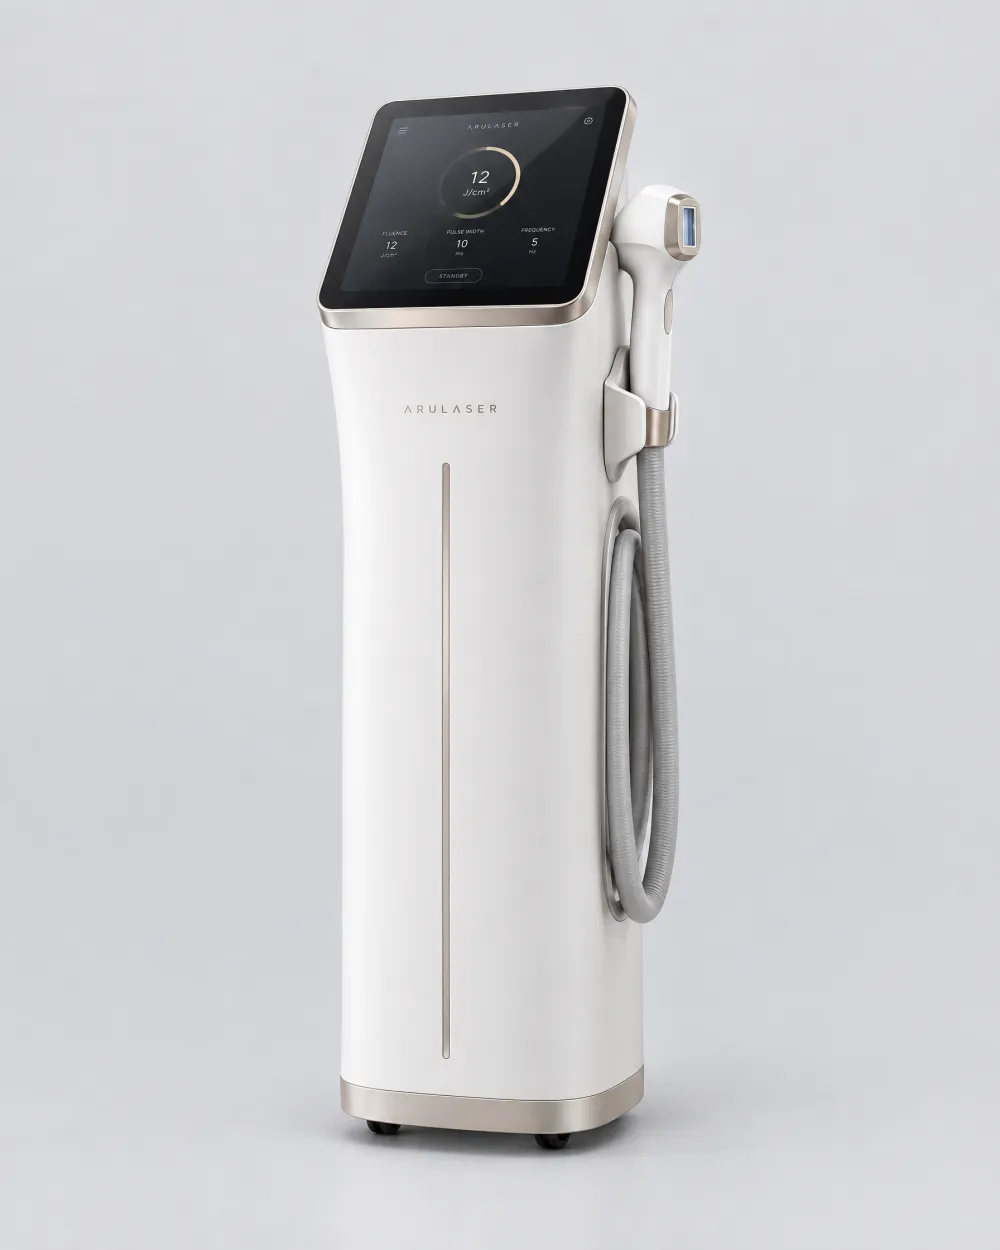
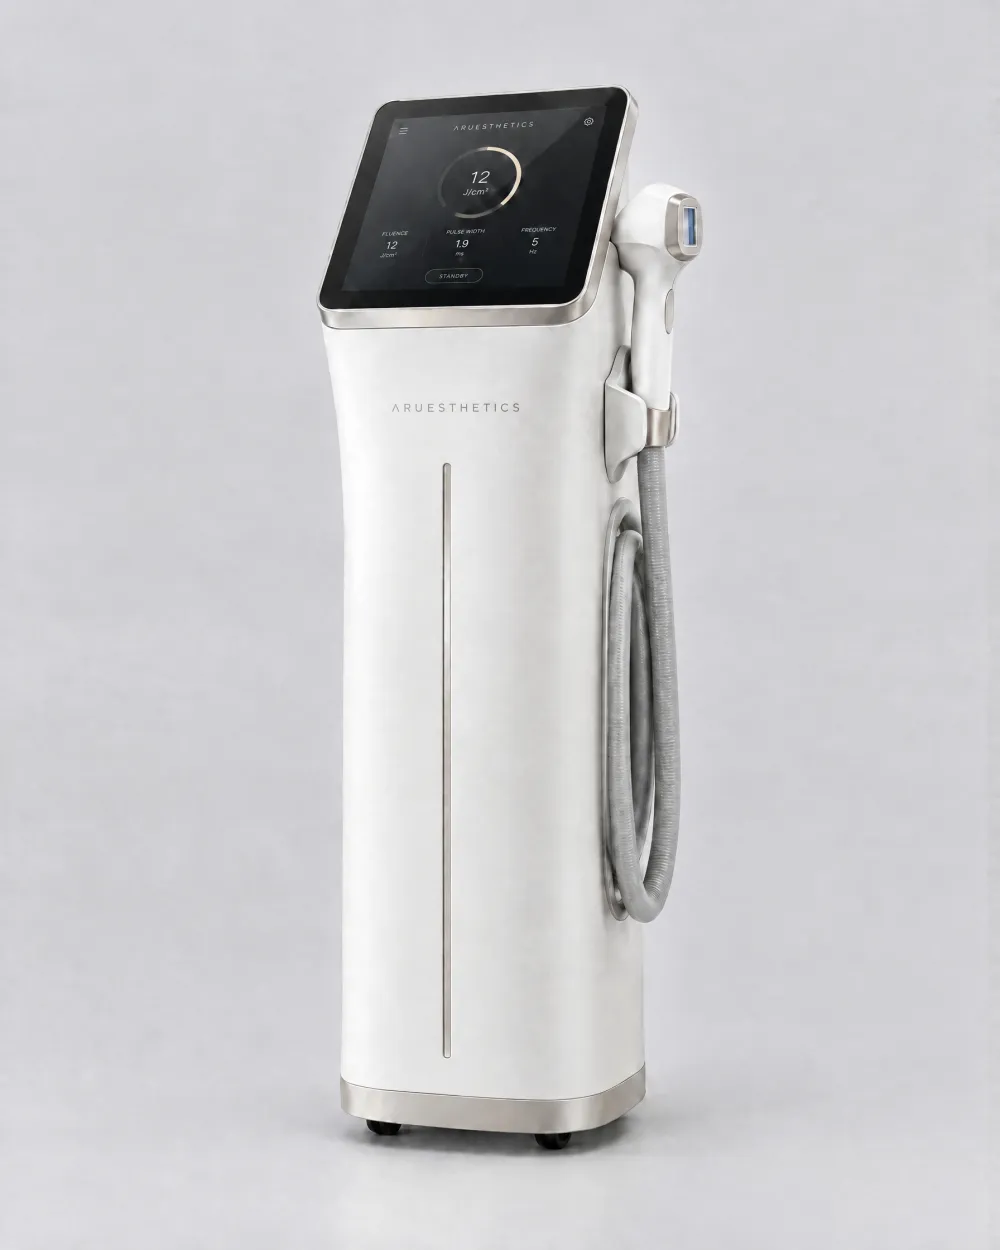
feat: la marca pasa a llamarse Aruesthetics
- Nombre en título, metadatos, logo, pie, texto legal, avisos del formulario
  y carpeta de envíos (../aruesthetics-datos).
- Las ocho fotos de equipo, editadas en Higgsfield: grabado y pantalla dicen
  ARUESTHETICS (comprobado con OCR); versión en la URL para saltar la caché.
- Rótulo gigante del pie reajustado a 12 letras.

diff --git a/site/index.html b/site/index.html
@@ -3,23 +3,23 @@
 <head>
   <meta charset="utf-8">
   <meta name="viewport" content="width=device-width, initial-scale=1, viewport-fit=cover">
-  <title>Arulaser — Maquinaria láser para centros estéticos</title>
-  <meta name="description" content="Arulaser diseña y distribuye maquinaria láser profesional para centros estéticos, clínicas y dermatología: depilación láser, picosegundo, Q-Switch, CO₂ fraccionado y vascular.">
+  <title>Aruesthetics — Maquinaria láser para centros estéticos</title>
+  <meta name="description" content="Aruesthetics diseña y distribuye maquinaria láser profesional para centros estéticos, clínicas y dermatología: depilación láser, picosegundo, Q-Switch, CO₂ fraccionado y vascular.">
   <!-- Dominio temporal: no indexar hasta publicar en el dominio definitivo -->
   <meta name="robots" content="noindex, nofollow">
   <meta name="theme-color" content="#141414">
   <meta property="og:type" content="website">
   <meta property="og:locale" content="es_ES">
-  <meta property="og:title" content="Arulaser — Maquinaria láser para centros estéticos">
+  <meta property="og:title" content="Aruesthetics — Maquinaria láser para centros estéticos">
   <meta property="og:description" content="Tecnología láser profesional para centros estéticos y clínicas, con formación y servicio técnico.">
   <meta property="og:image" content="img/og.jpg">
   <link rel="icon" href="img/favicon.svg" type="image/svg+xml">
   <link rel="preload" as="font" type="font/woff2" href="fonts/marcellus.woff2" crossorigin>
   <link rel="preload" as="font" type="font/woff2" href="fonts/hanken.woff2" crossorigin>
   <link rel="preload" as="image" href="img/hero.webp">
-  <link rel="stylesheet" href="css/styles.css?v=6">
+  <link rel="stylesheet" href="css/styles.css?v=7">
   <script type="application/ld+json">
-  {"@context":"https://schema.org","@type":"Organization","name":"Arulaser","description":"Maquinaria láser profesional para centros estéticos y clínicas.","logo":"img/favicon.svg"}
+  {"@context":"https://schema.org","@type":"Organization","name":"Aruesthetics","description":"Maquinaria láser profesional para centros estéticos y clínicas.","logo":"img/favicon.svg"}
   </script>
 </head>
 <body>
@@ -32,9 +32,9 @@
       <a href="#centros" data-sections="centros,encuentra">Para tu centro</a>
       <a href="#formacion" data-sections="formacion">Acompañamiento</a>
     </nav>
-    <a class="nav__logo" href="#top" aria-label="Arulaser, inicio">
+    <a class="nav__logo" href="#top" aria-label="Aruesthetics, inicio">
       <svg viewBox="0 0 40 40" aria-hidden="true"><circle cx="20" cy="20" r="18.5" fill="none" stroke="currentColor" stroke-width="1.2"/><circle cx="20" cy="20" r="11" fill="none" stroke="currentColor" stroke-width="1.2"/><path d="M1.5 20h37" stroke="currentColor" stroke-width="1.2"/><circle cx="20" cy="20" r="2.6" fill="currentColor"/></svg>
-      <span>ARULASER</span>
+      <span>ARUESTHETICS</span>
     </a>
     <div class="nav__right">
       <button type="button" class="linklike nav__quiz" data-open-quiz>Encuentra tu equipo</button>
@@ -276,7 +276,7 @@
         </label>
         <label class="field field--wide"><span>Mensaje</span><textarea name="mensaje" rows="4" placeholder="Tratamientos que quieres ofrecer, número de cabinas, plazos…"></textarea></label>
         <label class="check field--wide"><input type="checkbox" name="privacidad" required data-msg="Acepta la política de privacidad para poder enviarla."> <span>He leído y acepto la <button type="button" class="linklike u" data-open-privacy>política de privacidad</button>.</span></label>
-        <p class="legal field--wide"><strong>Responsable:</strong> Arulaser. <strong>Finalidad:</strong> responder a tu solicitud y organizar la demostración. <strong>Legitimación:</strong> tu consentimiento. <strong>Destinatarios:</strong> no se ceden datos a terceros salvo obligación legal. <strong>Derechos:</strong> acceso, rectificación, supresión y demás, como se explica en la política de privacidad.</p>
+        <p class="legal field--wide"><strong>Responsable:</strong> Aruesthetics. <strong>Finalidad:</strong> responder a tu solicitud y organizar la demostración. <strong>Legitimación:</strong> tu consentimiento. <strong>Destinatarios:</strong> no se ceden datos a terceros salvo obligación legal. <strong>Derechos:</strong> acceso, rectificación, supresión y demás, como se explica en la política de privacidad.</p>
         <p class="form__req field--wide"><i aria-hidden="true">*</i> Campos obligatorios</p>
         <div class="form__foot field--wide">
           <button class="btn btn--ink" type="submit">Enviar solicitud</button>
@@ -288,10 +288,10 @@
 
   <!-- ============ PIE ============ -->
   <footer class="footer" data-nav="dark">
-    <div class="footer__word" aria-hidden="true">ARULASER</div>
+    <div class="footer__word" aria-hidden="true">ARUESTHETICS</div>
     <div class="footer__grid">
       <div class="footer__news">
-        <h2 class="footer__h">Novedades Arulaser</h2>
+        <h2 class="footer__h">Novedades Aruesthetics</h2>
         <p>Lanzamientos, formaciones y novedades técnicas, sin saturar tu bandeja.</p>
         <form class="news" action="enviar.php" method="post" novalidate>
           <input type="hidden" name="tipo" value="newsletter">
@@ -313,7 +313,7 @@
         </ul>
       </div>
       <div>
-        <h2 class="footer__h">Arulaser</h2>
+        <h2 class="footer__h">Aruesthetics</h2>
         <ul>
           <li><a href="#tratamiento">El tratamiento</a></li>
           <li><button type="button" class="linklike" data-open-quiz>Encuentra tu equipo</button></li>
@@ -323,7 +323,7 @@
       </div>
     </div>
     <div class="footer__bottom">
-      <span>ARULASER © 2026</span>
+      <span>ARUESTHETICS © 2026</span>
       <button type="button" class="linklike" data-open-privacy>Privacidad</button>
       <span>Maquinaria láser profesional</span>
     </div>
@@ -412,13 +412,13 @@
     <button class="sheet__close" type="button" data-close aria-label="Cerrar">&times;</button>
     <div class="privacy__inner">
       <h2 id="pv-t" class="display display--ink">Privacidad</h2>
-      <p>Los datos que nos envías a través de los formularios de esta web se tratan con el único fin de responder a tu solicitud, organizar demostraciones y, si te suscribes, enviarte novedades de Arulaser.</p>
+      <p>Los datos que nos envías a través de los formularios de esta web se tratan con el único fin de responder a tu solicitud, organizar demostraciones y, si te suscribes, enviarte novedades de Aruesthetics.</p>
       <p>La base legal es tu consentimiento, que puedes retirar en cualquier momento. Conservamos los datos mientras sean necesarios para atender tu solicitud o hasta que pidas su supresión. No los cedemos a terceros salvo obligación legal.</p>
       <p>Puedes ejercer tus derechos de acceso, rectificación, supresión, oposición, limitación y portabilidad escribiéndonos a través del formulario de contacto, y presentar una reclamación ante la Agencia Española de Protección de Datos (aepd.es).</p>
       <p>Esta web no utiliza cookies de análisis ni de publicidad.</p>
     </div>
   </dialog>
 
-  <script src="js/main.js?v=5" defer></script>
+  <script src="js/main.js?v=6" defer></script>
 </body>
 </html>

diff --git a/site/js/main.js b/site/js/main.js
@@ -1,5 +1,5 @@
 /* ==========================================================
-   Arulaser — interacción de la página
+   Aruesthetics — interacción de la página
    ========================================================== */
 (() => {
   'use strict';
@@ -15,42 +15,42 @@
   /* ---------- Catálogo ---------- */
   const PRODUCTS = {
     trio: {
-      no: 'No. 01', name: 'Aru Trio', tech: 'Diodo · 755 / 808 / 1064 nm', img: 'img/p01.webp',
+      no: 'No. 01', name: 'Aru Trio', tech: 'Diodo · 755 / 808 / 1064 nm', img: 'img/p01.webp?v=2',
       desc: 'Plataforma de diodo con tres longitudes de onda combinadas en un mismo disparo. Pensada para cabinas de depilación con mucha agenda: un solo equipo para trabajar todos los fototipos y todas las zonas.',
       specs: ['Tres longitudes de onda combinadas: 755, 808 y 1064 nm', 'Pieza de mano con ventana de zafiro refrigerada', 'Pantalla táctil con protocolos por fototipo y zona', 'Formato torre con ruedas ocultas'],
     },
     compact: {
-      no: 'No. 02', name: 'Aru Compact', tech: 'Diodo · 808 nm', img: 'img/p02.webp', tag: 'Nuevo',
+      no: 'No. 02', name: 'Aru Compact', tech: 'Diodo · 808 nm', img: 'img/p02.webp?v=2', tag: 'Nuevo',
       desc: 'Diodo de sobremesa para centros que empiezan con el láser o necesitan una segunda cabina. Todo el protocolo de depilación en un formato que cabe en cualquier espacio.',
       specs: ['Formato sobremesa, fácil de mover entre cabinas', 'Pieza de mano con punta de zafiro', 'Interfaz táctil frontal con modos guiados', 'Ideal como primer equipo o cabina de apoyo'],
     },
     alex: {
-      no: 'No. 03', name: 'Aru Alex 755', tech: 'Alejandrita · 755 nm', img: 'img/p03.webp',
+      no: 'No. 03', name: 'Aru Alex 755', tech: 'Alejandrita · 755 nm', img: 'img/p03.webp?v=2',
       desc: 'Láser de alejandrita para vello fino y claro en fototipos bajos, con pieza de mano de spot redondo y refrigeración integrada.',
       specs: ['Longitud de onda de 755 nm', 'Pieza de mano de spot redondo', 'Refrigeración integrada en la pieza de mano', 'Mueble con ruedas y soporte lateral'],
     },
     ipl: {
-      no: 'No. 04', name: 'Aru IPL·SHR', tech: 'Luz pulsada · SHR', img: 'img/p04.webp',
+      no: 'No. 04', name: 'Aru IPL·SHR', tech: 'Luz pulsada · SHR', img: 'img/p04.webp?v=2',
       desc: 'Luz pulsada intensa con modo SHR de barrido para depilación progresiva y fotorrejuvenecimiento. Dos piezas de mano en el mismo equipo.',
       specs: ['Dos piezas de mano con cristal guía de luz', 'Modo SHR de barrido', 'Filtros para depilación y fotorrejuvenecimiento', 'Consola sobre pedestal'],
     },
     pico: {
-      no: 'No. 05', name: 'Aru Pico', tech: 'Picosegundo', img: 'img/p05.webp',
+      no: 'No. 05', name: 'Aru Pico', tech: 'Picosegundo', img: 'img/p05.webp?v=2',
       desc: 'Láser de picosegundos para eliminación de tatuajes y pigmento. Brazo articulado de siete articulaciones para llegar a cualquier zona sin forzar la postura.',
       specs: ['Pulsos en el rango de los picosegundos', 'Brazo articulado de siete articulaciones', 'Indicado para tatuajes multicolor y lesiones pigmentadas', 'Pantalla táctil con parámetros guardables'],
     },
     qs: {
-      no: 'No. 06', name: 'Aru Q-Switch', tech: 'Nd:YAG · 1064 / 532 nm', img: 'img/p06.webp',
+      no: 'No. 06', name: 'Aru Q-Switch', tech: 'Nd:YAG · 1064 / 532 nm', img: 'img/p06.webp?v=2',
       desc: 'Nd:YAG Q-Switched para tatuajes, manchas y carbon peel. Pieza de mano con zoom para ajustar el spot sin cambiar de cabezal.',
       specs: ['Longitudes de onda de 1064 y 532 nm', 'Pieza de mano con zoom de spot', 'Protocolos de carbon peel', 'Mueble compacto con ruedas'],
     },
     co2: {
-      no: 'No. 07', name: 'Aru CO₂ Fraccional', tech: 'CO₂ · 10.600 nm', img: 'img/p07.webp',
+      no: 'No. 07', name: 'Aru CO₂ Fraccional', tech: 'CO₂ · 10.600 nm', img: 'img/p07.webp?v=2',
       desc: 'CO₂ fraccionado con escáner para resurfacing, textura y cicatrices. Brazo de espejos articulado y patrones de escaneo configurables.',
       specs: ['Longitud de onda de 10.600 nm', 'Escáner con patrones configurables', 'Brazo articulado de espejos', 'Indicado para textura, poros y cicatrices'],
     },
     vascular: {
-      no: 'No. 08', name: 'Aru Vascular 980', tech: 'Diodo · 980 nm', img: 'img/p08.webp', tag: 'Nuevo',
+      no: 'No. 08', name: 'Aru Vascular 980', tech: 'Diodo · 980 nm', img: 'img/p08.webp?v=2', tag: 'Nuevo',
       desc: 'Diodo de 980 nm de sobremesa para arañas vasculares y lesiones vasculares finas. Pieza de mano tipo lápiz con fibra para trabajar con precisión.',
       specs: ['Longitud de onda de 980 nm', 'Pieza de mano tipo lápiz con fibra', 'Formato sobremesa', 'Indicado para arañas vasculares y puntos rubí'],
     },

diff --git a/site/css/styles.css b/site/css/styles.css
@@ -1,5 +1,5 @@
 /* ==========================================================
-   Arulaser — hoja de estilos
+   Aruesthetics — hoja de estilos
    Paleta y tipografía inspiradas en un catálogo editorial:
    gris claro, tinta casi negra, serif en mayúsculas.
    ========================================================== */
@@ -357,7 +357,7 @@ ul, ol { list-style: none; padding: 0; }
 /* ---------- Pie ---------- */
 .footer { background: var(--dark); color: #fff; padding: 24px 24px 24px; overflow: hidden; }
 .footer__word {
-  font-family: var(--serif); font-size: 20.6vw; line-height: .86; letter-spacing: -.025em; text-align: center; white-space: nowrap;
+  font-family: var(--serif); font-size: 14.6vw; line-height: .9; letter-spacing: -.025em; text-align: center; white-space: nowrap;
   color: #141414;
   text-shadow: .012em .016em 0 #6a6a6a, .012em .016em .05em rgba(190,190,190,.35), -.004em -.004em 0 #000;
   margin: 6px -24px 64px;

diff --git a/site/enviar.php b/site/enviar.php
@@ -1,8 +1,8 @@
 <?php
 /**
- * Arulaser — recepción de formularios (demostración y newsletter).
+ * Aruesthetics — recepción de formularios (demostración y newsletter).
  *
- * Guarda cada envío en ../arulaser-datos/ (fuera de public_html, para que un
+ * Guarda cada envío en ../aruesthetics-datos/ (fuera de public_html, para que un
  * nuevo despliegue no lo borre ni sea accesible desde la web) y, si se
  * configura DESTINO, envía además un aviso por email.
  */
@@ -68,14 +68,14 @@ if ($tipo === 'demostracion') {
 }
 
 // Carpeta de datos fuera de la raíz pública
-$dir = dirname(__DIR__) . '/arulaser-datos';
+$dir = dirname(__DIR__) . '/aruesthetics-datos';
 if (!is_dir($dir) && !@mkdir($dir, 0700, true)) {
-    error_log('Arulaser: no se pudo crear ' . $dir);
+    error_log('Aruesthetics: no se pudo crear ' . $dir);
     responder(false, 'No se ha podido enviar. Inténtalo de nuevo en unos minutos.', 500);
 }
 
 // Límite sencillo: 6 envíos por IP cada 10 minutos
-$ipHash = hash('sha256', ($_SERVER['REMOTE_ADDR'] ?? '') . '|arulaser');
+$ipHash = hash('sha256', ($_SERVER['REMOTE_ADDR'] ?? '') . '|aruesthetics');
 $limiteFile = $dir . '/limite.json';
 $ahora = time();
 $limites = is_file($limiteFile) ? (json_decode((string)file_get_contents($limiteFile), true) ?: []) : [];
@@ -90,18 +90,18 @@ $limites[$ipHash] = $mios;
 
 $linea = json_encode($datos, JSON_UNESCAPED_UNICODE | JSON_UNESCAPED_SLASHES) . "\n";
 if (@file_put_contents($dir . '/' . $tipo . '.jsonl', $linea, FILE_APPEND | LOCK_EX) === false) {
-    error_log('Arulaser: no se pudo guardar el envío');
+    error_log('Aruesthetics: no se pudo guardar el envío');
     responder(false, 'No se ha podido enviar. Inténtalo de nuevo en unos minutos.', 500);
 }
 
 if (DESTINO !== '') {
-    $asunto = $tipo === 'newsletter' ? 'Arulaser · nueva suscripción' : 'Arulaser · solicitud de demostración';
+    $asunto = $tipo === 'newsletter' ? 'Aruesthetics · nueva suscripción' : 'Aruesthetics · solicitud de demostración';
     $cuerpo = '';
     foreach ($datos as $k => $v) {
         $cuerpo .= ucfirst($k) . ': ' . $v . "\n";
     }
     $cabeceras = [
-        'From: Arulaser <' . REMITENTE . '>',
+        'From: Aruesthetics <' . REMITENTE . '>',
         'Reply-To: ' . $email,
         'Content-Type: text/plain; charset=utf-8',
     ];

diff --git a/README.md b/README.md
@@ -1,11 +1,11 @@
-# Arulaser — web
+# Aruesthetics — web
 
-Web estática de Arulaser (maquinaria láser para centros estéticos). Español de España, sin precios.
+Web estática de Aruesthetics (maquinaria láser para centros estéticos). Español de España, sin precios.
 
 - `site/` — lo que se publica: `index.html`, `css/`, `js/`, `img/`, `video/`, `frames/`, `fonts/`, `enviar.php`.
 - Imágenes y vídeos generados con Higgsfield (GPT Image 2.5 y Kling 3.0); los originales quedan en `src/` (no versionados).
 - **Vídeo scroll** (`#tratamiento`): secuencia de 151 fotogramas en `site/frames/d` (escritorio, 1600 px) y `site/frames/m` (móvil, recorte 3:4) dibujada en un canvas según el scroll. `data-frames` en el `<section>` debe coincidir con el número de fotogramas.
-- **Formularios**: `enviar.php` guarda los envíos en `../arulaser-datos/*.jsonl` (fuera de `public_html`). Para recibir avisos por email, rellenar `DESTINO` en `enviar.php`.
+- **Formularios**: `enviar.php` guarda los envíos en `../aruesthetics-datos/*.jsonl` (fuera de `public_html`). Para recibir avisos por email, rellenar `DESTINO` en `enviar.php`.
 - **Dominio temporal**: la web lleva `noindex` (meta, cabecera `X-Robots-Tag` y `robots.txt`). Quitarlo al pasar al dominio definitivo.
 
 Previsualizar en local: `python3 -m http.server 8791 --directory site` (el formulario necesita PHP, solo funciona en el servidor).
